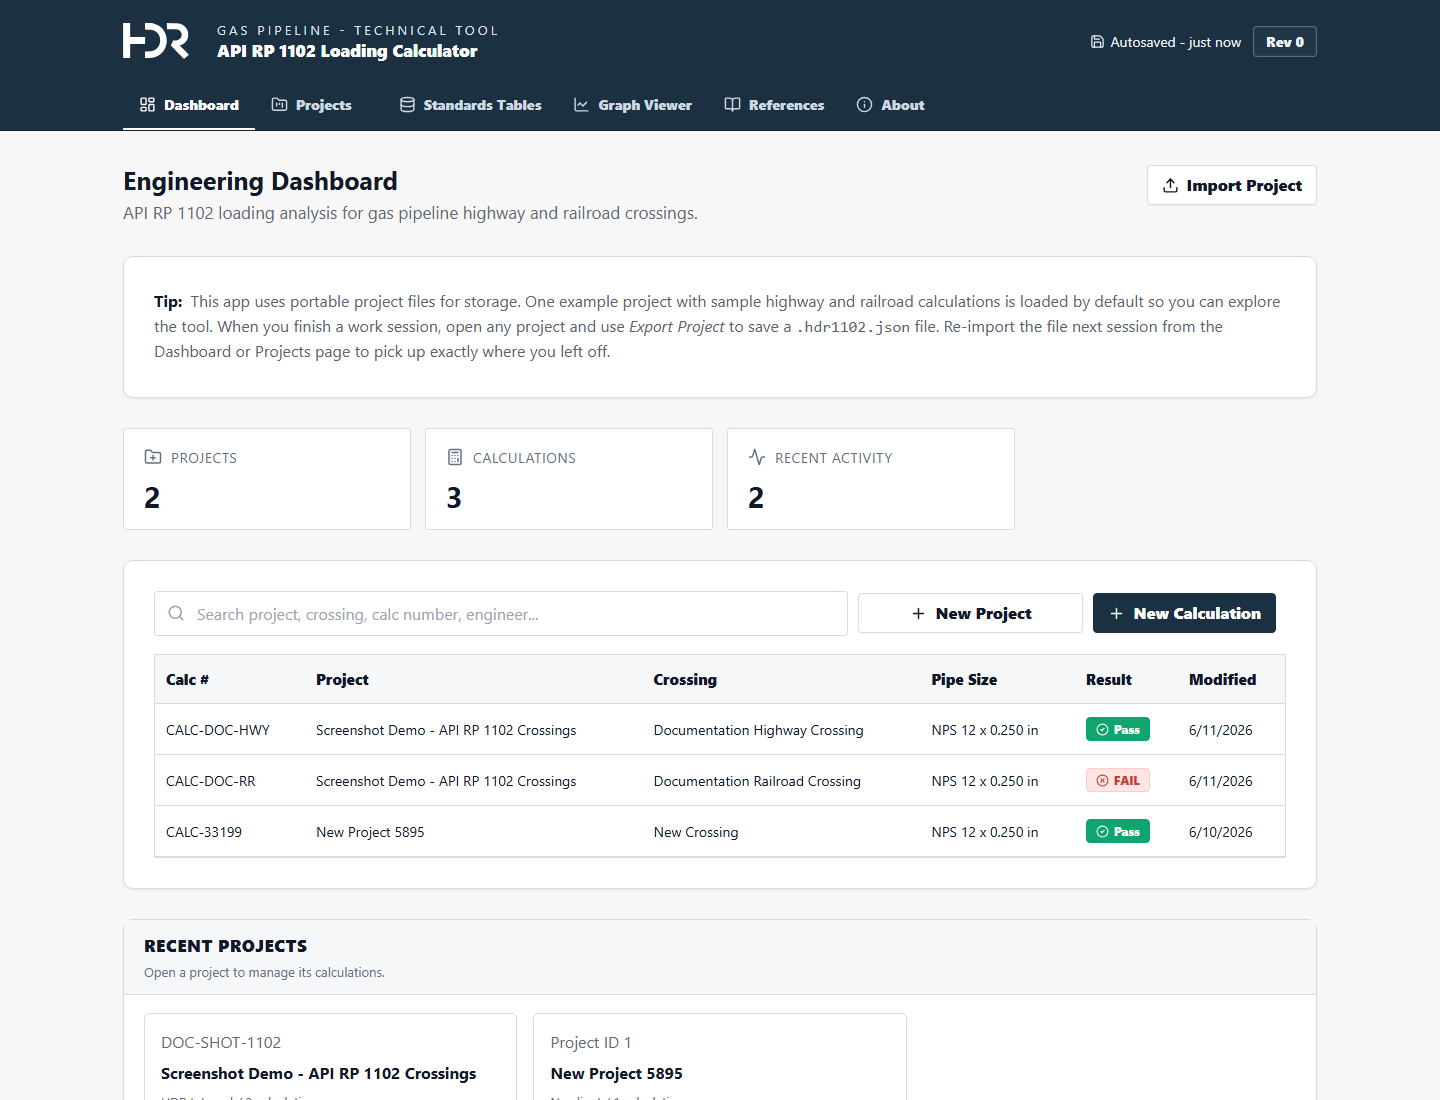
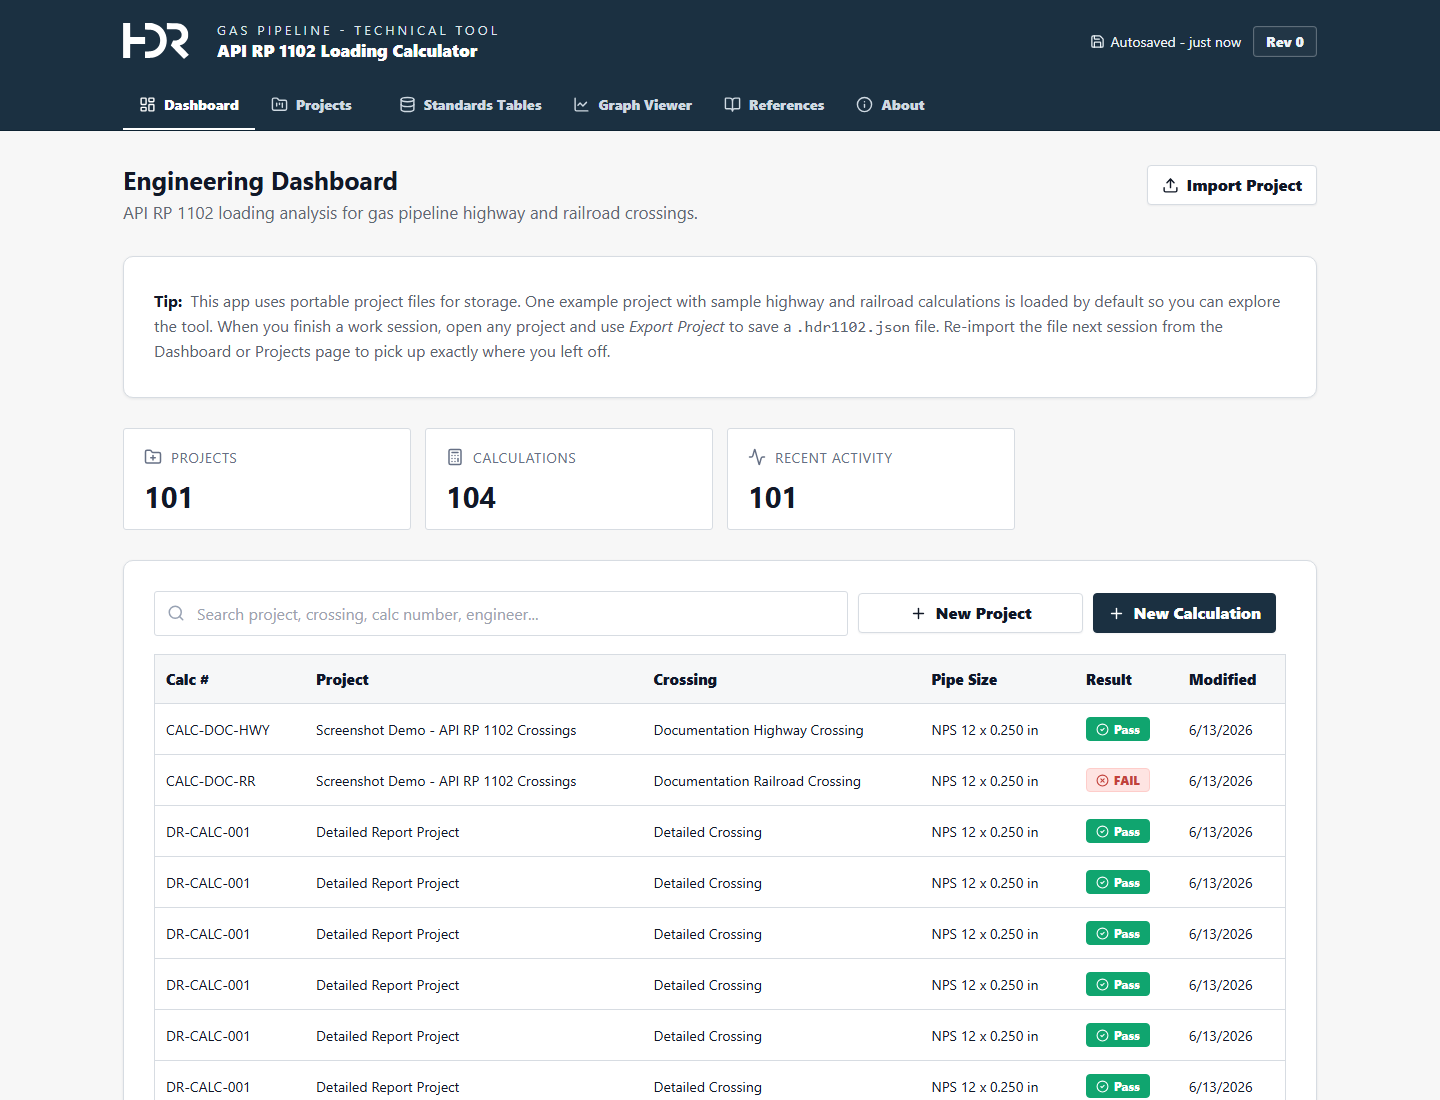
Update readme screnshots

diff --git a/README.md b/README.md
@@ -108,39 +108,39 @@ The tool supports both Highway and Railroad loading calculations. It can be used
 ## Screenshots
 
 ### Dashboard
-Project and calculation summary with recent work and status metrics.
+Project and calculation summary with recent work, status filtering, and quick-access project cards.
 
 ![Dashboard](docs/screenshots/dashboard.png)
 
 ### Projects
-Project list with search, selection, export, duplicate, and delete actions.
+Project list with search, bulk selection, export, and delete actions for managing crossing records.
 
 ![Projects](docs/screenshots/projects.png)
 
-### Project Detail
-Project metadata and the calculation list for highway and railroad crossings.
-
-![Project Detail](docs/screenshots/project-detail.png)
-
 ### Highway Calculation Worksheet
-Highway loading worksheet with metadata, scenario controls, engineering inputs, and live schematic.
+Highway loading worksheet showing engineering inputs, standards-driven dropdowns, live cross-section schematic, and integrated results summary.
 
 ![Highway Calculation Worksheet](docs/screenshots/highway-calculation.png)
 
-### Railroad Calculation Worksheet
-Railroad loading worksheet with railroad-specific inputs and schematic.
+### Results and Warnings
+Pass/fail results with utilization bars, controlling check identification, green Pass badges, and intermediate calculation values.
 
-![Railroad Calculation Worksheet](docs/screenshots/railroad-calculation.png)
+![Results and Warnings](docs/screenshots/results-pass.png)
 
-### Results and Advanced Values
-Pass/fail summary, utilization bars, warnings, and intermediate calculation values.
+### Simple Report
+Browser-print simplified calculation report formatted for one-page review with CSV/JSON export links.
 
-![Results and Advanced Values](docs/screenshots/results-advanced.png)
+![Simple Report](docs/screenshots/simple-report.png)
 
-### Report Preview
-Browser-print simplified calculation report preview.
+### Detailed Report
+Backend-generated detailed PDF report with formula trace, coefficient lookup summary, digitized graph plots with API 1102 curve underlays, and appendix figures.
 
-![Report Preview](docs/screenshots/report-preview.png)
+![Detailed Report](docs/screenshots/detailed-report.png)
+
+### Graph Viewer
+Interactive digitized graph viewer for inspecting API 1102 figure curves with crosshair readout, typed x-value lookup, and underlay/overlay toggle.
+
+![Graph Viewer](docs/screenshots/graph-viewer.png)
 
 Current README screenshots are stored in `docs/screenshots/`. Historical UI-reference screenshots used for alignment remain in `App Screenshots/`, with audit notes in `docs/screenshot-audit.md`.
 
